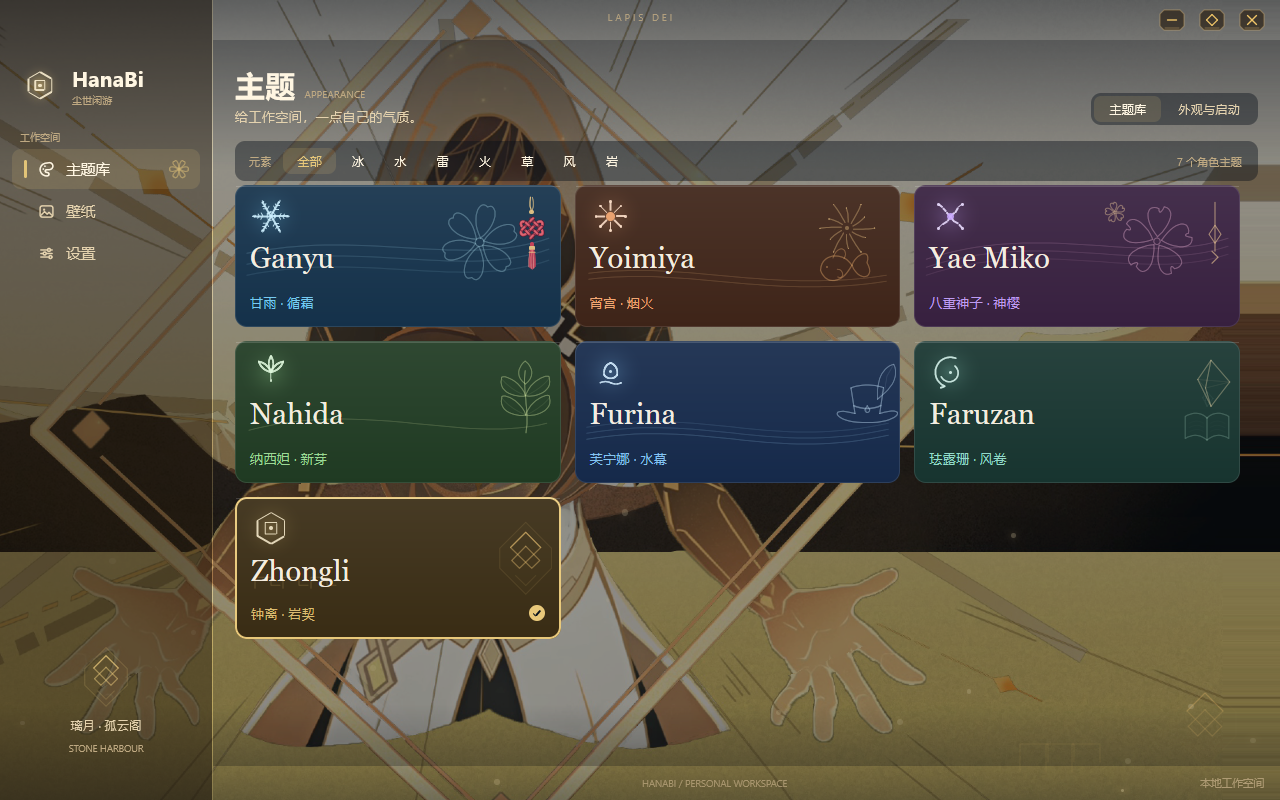
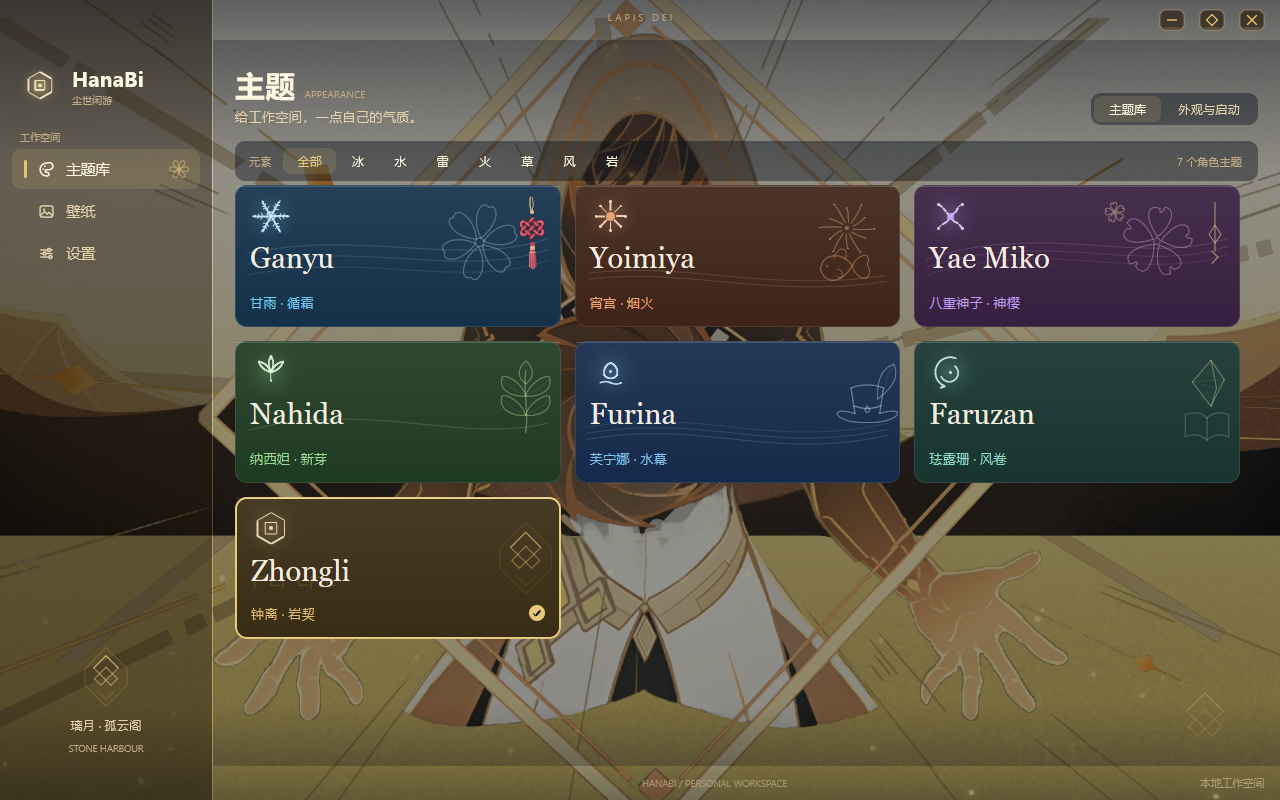
revert: 撤掉每角色取景（部分人物偏左），保留弹簧过渡
上一版照抄了原项目的 view.zoom / view.focusX，在 16:10 窗口下横向裁切更窄，
同样的 UV 平移被放大成十几个百分点，宵宫/纳西妲/芙宁娜/珐露珊/钟离明显偏左。

- 去掉 Character 的 Zoom/FocusX/FocusY、着色器的 Zoom/Focus 与 view 的镜头插值，
  壁纸回到 Cover 铺满（构图与取景前一致）
- 保留：临界阻尼弹簧进度（0.1s 过半、0.2s 到 96%）、wallpaper.Options 结构体
- 截图回退到取景前的版本；README / docs / CHANGELOG 同步

diff --git a/internal/theme/theme.go b/internal/theme/theme.go
@@ -292,16 +292,6 @@ type Character struct {
 	// Motion 是壁纸的动态配置（呼吸 / 发丝 / 环境漂移）。零值 = 完全静态。
 	Motion Motion
 
-	// Zoom / FocusX / FocusY 是壁纸取景：Zoom > 1 裁得更紧，Focus 是落在
-	// 窗口中心的图片坐标（0..1，零值 = 居中）。
-	//
-	// 数值取自参考项目的 view.zoom / view.focusX（k=1 稳态）：甘雨 1.22/0.395
-	// 是"近景"，纳西妲 1.02/0.605 是"远景"。切换主题时这两个值会插值，
-	// 镜头从旧取景推到新取景——原版"从后到前 / 从前到后"的观感就来自这里。
-	Zoom   float32
-	FocusX float32
-	FocusY float32
-
 	// WallTint 是壁纸染色的强度 0..1：0 = 保持原图颜色。
 	// 各自的壁纸色调已经贴合角色，这里只做轻微统一，通常 0.1~0.2。
 	WallTint float32
@@ -350,7 +340,7 @@ var all = []Character{
 		Motto: "循霜而行", Constellation: "S I N U S   U N I C O R N I S",
 		Scene: "璃月 · 海灯夜", SceneEN: "A QUIET MOMENT",
 		Element: Cryo, Motif: MotifCrystal, Opening: OpeningGanyu, Chrome: ChromeCrystal, Ornament: OrnamentQingxin,
-		Zoom: 1.22, FocusX: 0.395, FocusY: 0.485, WallTint: 0.15, Scrim: 0.14,
+		WallTint: 0.15, Scrim: 0.14,
 		CardBg: ui.Hex("#14314A"), Art: ArtNone,
 		Bg: "ganyu/bg.jpg", Icon: "ganyu/icon.png", Tok: ganyuTokens(),
 		// 甘雨壁纸动态，分两层机制：
@@ -377,7 +367,7 @@ var all = []Character{
 		Motto: "琉焰华舞", Constellation: "C A R A S S I U S   A U R A T U S",
 		Scene: "稻妻 · 夏祭", SceneEN: "FIREWORKS AT DUSK",
 		Element: Pyro, Motif: MotifFlame, Opening: OpeningYoimiya, Chrome: ChromePyro, Ornament: OrnamentGoldfish,
-		Zoom: 1.06, FocusX: 0.605, FocusY: 0.485, WallTint: 0.18, Scrim: 0.18,
+		WallTint: 0.18, Scrim: 0.18,
 		CardBg: ui.Hex("#3E2418"), Art: ArtNone,
 		Bg: "yoimiya/bg.jpg", Tok: yoimiyaTokens(),
 		// 宵宫：人物从 .hbc 网格烤进背景图（原图的背景是没有人的空场景）。
@@ -398,7 +388,7 @@ var all = []Character{
 		Element: Electro, Motif: MotifBolt, Opening: OpeningYae, Chrome: ChromeElectro, Ornament: OrnamentSakura,
 		// 压暗值按合成后壁纸的实测亮度给（0.70 → 0.32+0.38×0.55 ≈ 0.53，取 0.56 留一点余量）。
 		// 原背景是一整片亮樱色（0.81），烤进人物后暗部变多，0.66 会把人物压得看不清。
-		Zoom: 1.10, FocusX: 0.560, FocusY: 0.485, WallTint: 0.15, Scrim: 0.20,
+		WallTint: 0.15, Scrim: 0.20,
 		CardBg: ui.Hex("#37203F"), Art: ArtNone,
 		Bg: "yae/bg.jpg", Tok: yaeTokens(),
 		// 八重神子：原图的背景只有樱花枝（人物也是 .hbc 网格，已烤进 bg.jpg）。
@@ -421,7 +411,7 @@ var all = []Character{
 		Motto: "白草净华", Constellation: "S A P I E N T I A   O R O M A S D I S",
 		Scene: "须弥 · 世界树", SceneEN: "DREAM OF WISDOM",
 		Element: Dendro, Motif: MotifLeaf, Opening: OpeningNahida, Chrome: ChromeDendro, Ornament: OrnamentSprig,
-		Zoom: 1.02, FocusX: 0.605, FocusY: 0.485, WallTint: 0.15, Scrim: 0.22,
+		WallTint: 0.15, Scrim: 0.22,
 		CardBg: ui.Hex("#1F3A22"), Art: ArtNone,
 		Bg: "nahida/bg.jpg", Tok: derive(ui.Hex("#A8E6A0")),
 		// 纳西妲：整幅都是她的特写。人物遮罩从「细节强度」推（虚化的背景细节少、
@@ -438,7 +428,7 @@ var all = []Character{
 		Motto: "不休独舞", Constellation: "A N I M U L A   C H O R A G I",
 		Scene: "枫丹 · 歌剧院", SceneEN: "THE STAGE AWAITS",
 		Element: Hydro, Motif: MotifWave, Opening: OpeningFurina, Chrome: ChromeHydro, Ornament: OrnamentTopHat,
-		Zoom: 1.06, FocusX: 0.620, FocusY: 0.485, WallTint: 0.14, Scrim: 0.14,
+		WallTint: 0.14, Scrim: 0.14,
 		CardBg: ui.Hex("#15294A"), Art: ArtNone,
 		Bg: "furina/bg.jpg", Tok: derive(ui.Hex("#8FD0FF")),
 		// 芙宁娜：发丝遮罩用原项目的 furina-sway.png（就是她发梢的形状），
@@ -454,7 +444,7 @@ var all = []Character{
 		Motto: "百巧千机", Constellation: "F L O S C U L I   I M P L E X I",
 		Scene: "须弥 · 教令院", SceneEN: "MACHINA OF WISDOM",
 		Element: Anemo, Motif: MotifWind, Opening: OpeningFaruzan, Chrome: ChromeAnemo, Ornament: OrnamentPolyhedron,
-		Zoom: 1.04, FocusX: 0.600, FocusY: 0.485, WallTint: 0.16, Scrim: 0.18,
+		WallTint: 0.16, Scrim: 0.18,
 		CardBg: ui.Hex("#17342F"), Art: ArtNone,
 		Bg: "faruzan/bg.jpg", Tok: derive(ui.Hex("#9EE8D6")),
 		// 珐露珊：原项目只有一张流向图（没有遮罩），发丝区按「头顶 + 左侧马尾」
@@ -472,7 +462,7 @@ var all = []Character{
 		Motto: "尘世闲游", Constellation: "L A P I S   D E I",
 		Scene: "璃月 · 孤云阁", SceneEN: "STONE HARBOUR",
 		Element: Geo, Motif: MotifGeo, Opening: OpeningZhongli, Chrome: ChromeGeo, Ornament: OrnamentStoneSeal,
-		Zoom: 1.03, FocusX: 0.605, FocusY: 0.485, WallTint: 0.18, Scrim: 0.22,
+		WallTint: 0.18, Scrim: 0.22,
 		CardBg: ui.Hex("#392C14"), Art: ArtNone,
 		Bg: "zhongli/bg.jpg", Tok: zhongliTokens(),
 		// 钟离：壁纸是 .hbw 分层容器，人物是第 7 层（id=85），发丝权重取该层

diff --git a/internal/view/app.go b/internal/view/app.go
@@ -434,19 +434,12 @@ func (a *App) View(c *ui.Context) {
 		fromFlow = a.wallpaperFlow()
 	}
 
-	// 取景（zoom + 焦点）：新旧两层共用同一个镜头，切换时从旧取景推到新取景。
-	// 这是"从后到前 / 从前到后"的来源——只叠化画面是平的，镜头动起来才有纵深。
-	cam := framingOf(fromChar)
-	if a.switching {
-		cam = cam.Mix(framingOf(a.char), k)
-	}
-
 	// 壁纸画在根容器的 Draw 回调里：它在自身背景之后、子元素之前执行，
 	// 所以 UI 天然压在壁纸上，不需要额外的层叠容器。
 	root := ui.Column(c).Fill().Background(a.tok.WinFill)
 	if fromBg != nil {
 		root = root.Draw(func(p *ui.Painter, r ui.Rect) {
-			a.drawWallpaper(p, r, fromChar, fromBg, fromFlow, fromTok, p.Now(), cam)
+			a.drawWallpaper(p, r, fromChar, fromBg, fromFlow, fromTok, p.Now())
 		})
 	}
 
@@ -460,7 +453,7 @@ func (a *App) View(c *ui.Context) {
 				flow := a.wallpaperFlow()
 				ui.Box(c).Fill().Opacity(k).
 					Draw(func(p *ui.Painter, r ui.Rect) {
-						a.drawWallpaper(p, r, a.char, bg, flow, a.char.Tok, p.Now(), cam)
+						a.drawWallpaper(p, r, a.char, bg, flow, a.char.Tok, p.Now())
 					})
 			}
 		}
@@ -498,19 +491,13 @@ func (a *App) View(c *ui.Context) {
 	}
 }
 
-// framingOf 把角色主题的取景转成着色器参数。
-func framingOf(c theme.Character) wallpaper.Framing {
-	return wallpaper.Framing{Zoom: c.Zoom, FocusX: c.FocusX, FocusY: c.FocusY}
-}
-
 // drawWallpaper 画一层壁纸：着色器 + 按壁纸亮度压暗 + 顶部渐变 + 环境粒子。
 //
 // 过渡时旧、新两层各画一次，新层靠 Element.Opacity 淡入。壁纸显现
 // （settings.WallpaperVis）叠加到角色自带的 Scrim 上，两层各自算。
-// cam 是共享的取景（过渡时由新旧两个角色插值而来）。
 func (a *App) drawWallpaper(p *ui.Painter, r ui.Rect, ch theme.Character,
-	bg *ui.Bitmap, flow *wallpaper.Flow, tok theme.Tokens, now time.Time, cam wallpaper.Framing) {
-	a.drawWallpaperAt(p, r, ch, bg, flow, tok, now.Sub(a.t0).Seconds(), cam)
+	bg *ui.Bitmap, flow *wallpaper.Flow, tok theme.Tokens, now time.Time) {
+	a.drawWallpaperAt(p, r, ch, bg, flow, tok, now.Sub(a.t0).Seconds())
 }
 
 // drawWallpaperAt 同上，但动效时间是显式传入的秒数。
@@ -518,8 +505,8 @@ func (a *App) drawWallpaper(p *ui.Painter, r ui.Rect, ch theme.Character,
 // 拆出来是为了截图/回归测试能钉住某一时刻——离屏渲染一帧要几秒，用真时钟
 // 会把动效推进一大截，两张图之间根本对不上。
 func (a *App) drawWallpaperAt(p *ui.Painter, r ui.Rect, ch theme.Character,
-	bg *ui.Bitmap, flow *wallpaper.Flow, tok theme.Tokens, elapsed float64, cam wallpaper.Framing) {
-	// 着色器驱动：取景（zoom + 焦点）+ 按角色元素色保亮度染色；
+	bg *ui.Bitmap, flow *wallpaper.Flow, tok theme.Tokens, elapsed float64) {
+	// 着色器驱动：Cover 铺满 + 按角色元素色保亮度染色；
 	// 人物、发丝、环境三层遮罩决定"谁能动"。
 	wallpaper.Draw(p, bg, r, wallpaper.Options{
 		Time:       elapsed,
@@ -527,7 +514,6 @@ func (a *App) drawWallpaperAt(p *ui.Painter, r ui.Rect, ch theme.Character,
 		Tint:       tok.Accent,
 		TintAmount: ch.WallTint,
 		Flow:       flow,
-		Framing:    cam,
 	})
 
 	scrim := a.settings.EffectiveScrim(ch.Scrim)

diff --git a/internal/wallpaper/wallpaper.go b/internal/wallpaper/wallpaper.go
@@ -53,41 +53,6 @@ type Flow struct {
 	DriftSpeed float32
 }
 
-// Framing 是取景：Zoom 越大裁得越紧，Focus 是落在窗口中心的图片坐标（0..1）。
-//
-// 参考项目给每个角色配了不同的取景（zoom 1.02~1.22、focusX 0.40~0.62），
-// 切换主题时镜头会从旧取景推拉到新取景——这就是"从后到前 / 从前到后"的来源。
-// 零值表示不缩放、居中。
-type Framing struct {
-	Zoom   float32
-	FocusX float32
-	FocusY float32
-}
-
-// Norm 把零值补成默认取景（zoom 1、居中），避免调用方到处判零。
-func (f Framing) Norm() Framing {
-	if f.Zoom <= 0 {
-		f.Zoom = 1
-	}
-	if f.FocusX <= 0 {
-		f.FocusX = 0.5
-	}
-	if f.FocusY <= 0 {
-		f.FocusY = 0.5
-	}
-	return f
-}
-
-// Mix 在两个取景之间插值（k=0 取 a，k=1 取 b）。
-func (f Framing) Mix(to Framing, k float32) Framing {
-	a, b := f.Norm(), to.Norm()
-	return Framing{
-		Zoom:   a.Zoom + (b.Zoom-a.Zoom)*k,
-		FocusX: a.FocusX + (b.FocusX-a.FocusX)*k,
-		FocusY: a.FocusY + (b.FocusY-a.FocusY)*k,
-	}
-}
-
 // Options 是一次壁纸绘制的全部参数。
 type Options struct {
 	// Time 是动效秒数，Play 是动效强度 0..1（0 = 静止）。
@@ -98,8 +63,6 @@ type Options struct {
 	TintAmount float32
 	// Flow 是可选的动态素材，nil 表示该主题完全静态。
 	Flow *Flow
-	// Framing 是取景（缩放与焦点）。
-	Framing Framing
 }
 
 // Draw 在 r 处按 o 绘制壁纸。
@@ -120,7 +83,6 @@ func Draw(p *ui.Painter, bg *ui.Bitmap, r ui.Rect, o Options) {
 			dir = o.Flow.DriftDir
 		}
 	}
-	f := o.Framing.Norm()
 	// image0=背景，image1=人物闸门，image2=发丝（R/G 两层），image3=环境。
 	// 空缺槽位读透明（权重 0），对应层自动不参与。
 	fx.Draw(p, r, shader.Options{
@@ -134,8 +96,6 @@ func Draw(p *ui.Painter, bg *ui.Bitmap, r ui.Rect, o Options) {
 			"DriftStrength":  drift,
 			"DriftDir":       dir[:],
 			"DriftSpeed":     speed,
-			"Zoom":           f.Zoom,
-			"Focus":          []float32{f.FocusX, f.FocusY},
 		},
 		Images: [4]*ui.Bitmap{bg, person, hair, ambient},
 	})

diff --git a/internal/view/theme_transition_test.go b/internal/view/theme_transition_test.go
@@ -1,10 +1,6 @@
-package view
+package view
 
-import (
-	"testing"
-
-	"bestuav-hanabi/internal/wallpaper"
-)
+import "testing"
 
 // TestSpringProgress 钉住主题切换的弹簧曲线：
 // 起点 0、单调、比匀速更早到达（0.1s 已经过半），到 0.42s 基本到 1。
@@ -26,30 +22,5 @@ func TestSpringProgress(t *testing.T) {
 	// 弹簧起步比 slowerstep 快：0.1s 时已经过半（匀速是 0.24）。
 	if v := springProgress(0.1); v < 0.6 {
 		t.Errorf("0.1s 应已过半（弹簧起步快），实际 %v", v)
-	}
-}
-
-// TestFramingMix 钉住取景插值：端点原样，中点居中。
-func TestFramingMix(t *testing.T) {
-	from := wallpaper.Framing{Zoom: 1.22, FocusX: 0.395, FocusY: 0.485}
-	to := wallpaper.Framing{Zoom: 1.02, FocusX: 0.605, FocusY: 0.485}
-
-	if got := from.Mix(to, 0); got != from {
-		t.Errorf("k=0 应等于起点，实际 %+v", got)
-	}
-	if got := from.Mix(to, 1); got != to {
-		t.Errorf("k=1 应等于终点，实际 %+v", got)
-	}
-	mid := from.Mix(to, 0.5)
-	if d := mid.Zoom - 1.12; d > 1e-5 || d < -1e-5 {
-		t.Errorf("中点 zoom 应为 1.12，实际 %v", mid.Zoom)
-	}
-	if d := mid.FocusX - 0.5; d > 1e-5 || d < -1e-5 {
-		t.Errorf("中点 focusX 应为 0.5，实际 %v", mid.FocusX)
-	}
-	// 零值要补成默认取景（zoom 1、居中），否则着色器会拿到 0 缩放。
-	def := wallpaper.Framing{}.Norm()
-	if def.Zoom != 1 || def.FocusX != 0.5 || def.FocusY != 0.5 {
-		t.Errorf("零值应归一成 zoom=1/居中，实际 %+v", def)
 	}
 }

diff --git a/internal/view/shotdump_test.go b/internal/view/shotdump_test.go
@@ -61,14 +61,13 @@ func TestWriteShots(t *testing.T) {
 			continue
 		}
 		flow := a.wallpaperFlowFor(ch)
-		cam := framingOf(ch)
 		for _, tm := range []float64{0, 6} {
 			fx := tm
 			shot := ui.NewTester(func(c *ui.Context) {
 				ui.Column(c).Fill().Draw(func(p *ui.Painter, r ui.Rect) {
 					wallpaper.Draw(p, bg, r, wallpaper.Options{
 						Time: fx, Play: 1, Tint: ch.Tok.Accent, TintAmount: ch.WallTint,
-						Flow: flow, Framing: cam,
+						Flow: flow,
 					})
 				})
 			}, w, h).Image()
@@ -77,7 +76,7 @@ func TestWriteShots(t *testing.T) {
 			// 带压暗层与粒子的完整壁纸（等于主界面上看到的那一层，但没有 UI）。
 			full := ui.NewTester(func(c *ui.Context) {
 				ui.Column(c).Fill().Draw(func(p *ui.Painter, r ui.Rect) {
-					a.drawWallpaperAt(p, r, ch, bg, flow, ch.Tok, fx, cam)
+					a.drawWallpaperAt(p, r, ch, bg, flow, ch.Tok, fx)
 				})
 			}, w, h).Image()
 			savePNG(t, filepath.Join(dir, fmt.Sprintf("wallpaperfull-%s-t%.2f.png", ch.ID, tm)), full)

diff --git a/README.md b/README.md
@@ -21,8 +21,7 @@
   状态栏只属于内容区（不通到侧栏），侧栏底部居中
 - **多角色主题**：一套「角色包」结构——令牌（11 色 + 圆角）、元素、标识画法（Motif）、
   窗口按钮造型（Chrome）、纹样（Ornament）、命之座、壁纸染色强度
-  - 主题库点卡片即切换：侧栏、卡片、文字、卡片 tint、壁纸氛围一起变，
-  0.42 秒弹簧过渡 + 镜头推拉（每个角色一套取景）
+  - 主题库点卡片即切换：侧栏、卡片、文字、卡片 tint、壁纸氛围一起变，0.42 秒弹簧过渡
   - **七个角色各有自己的壁纸**（均从 HanaBi-ui-Genshin 导入）：甘雨、宵宫、八重神子、纳西妲、芙宁娜、珐露珊、钟离
   - 八重神子与宵宫的原背景是**空场景**：原项目把人物做成运行时单独一层网格（`.hbc`）叠上去的。
     这里由脚本把人物烤进背景图，并顺手推出人物/发丝遮罩（见「动态壁纸」）
@@ -108,14 +107,12 @@
 - **启动记忆**：`internal/settings` 负责默认值、夹取与 JSON 读写；`NewAppWithSettings` 在启动时
   按模式选角色、字号、动效与开场开关；切换主题时同步 `Theme`（跟随当前用）
 - **转场**：
-  - **每个角色一套取景**（`Zoom` / `FocusX` / `FocusY`，数值取自原项目 `view.zoom` / `view.focusX`）：
-    甘雨 1.22 / 0.395 是近景，纳西妲 1.02 / 0.605 是远景，其余在两者之间
-  - 主题切换 **0.42 秒**：旧壁纸留在底层，新壁纸作为普通子元素按 `k` 淡入；
-    **两层共用同一个镜头**，`k` 从旧取景推到新取景——切换时画面会推近/拉远、横移，
-    这就是原版"从后到前 / 从前到后"的观感。只做透明度叠化是平的，所以之前显得生硬
+  - 主题切换 **0.42 秒**：旧壁纸留在底层，新壁纸作为普通子元素按 `k` 淡入，
+    同时 `a.tok` 在两组令牌之间插值；UI 整层是 Absolute，排在新壁纸之后绘制
+  - 壁纸按 Cover 铺满、不做额外缩放平移（照抄原版 `view.zoom` / `view.focusX`
+    的取景在 16:10 窗口下会让部分人物明显偏左，已经撤掉）
   - 进度曲线用**临界阻尼弹簧**（参考项目 `springs::S_CRIT`：4Hz、ζ=1，`1-e^(-wt)(1+wt)`）：
     起步快、收尾慢；0.1s 已过半、0.2s 到 96%，比 smootherstep 更"跟手"
-  - 同时 `a.tok` 在两组令牌之间插值；UI 整层是 Absolute，排在新壁纸之后绘制
   - 页面切换 **0.22 秒**：内容从下方 10 DIP 滑入并淡入
   - 主题页两个视图切换 **0.18 秒**淡入；窗口按钮悬停 140ms 补间，关闭按钮转玫红
 - **半透明浮层**：侧栏、标题栏、状态栏直接压在壁纸上（不用 glass 材质——它自带边缘高光，
@@ -208,7 +205,7 @@
 31. **派生壁纸资源是脚本产物、不是手改的**：`assets/<id>/person.png`、`hair.png`、`ambient.png`（以及八重/宵宫的 `bg.jpg`）由 `scripts/assetgen/generate.py` 从原项目素材生成，改了参数要重跑脚本；手改会在下次重跑时被覆盖。
 32. **4K 素材不能原样解码**：3840×2160 解成 RGBA 就是 33MB/张，加上 `ui.DecodeBitmap` 留的压缩数据、重新解码闭包和画小图时的 mip 层级，一个主题五六十 MB；切换时新旧两份同时驻留，来回切几次进程就冲到 700MB。现在**解码时就把宽度压到 1920**（遮罩生成时就只有 960），一张壁纸 8.3MB，一个主题约 15MB。另外别用 `x/image/draw` 的 `CatmullRom`/`BiLinear` 缩这种大图：源是 YCbCr 时它们走通用路径，会额外分配两张 float32 中间图（一张 4K 图临时就要 139MB），要自己按面积平均。
 33. **压暗值不能按"白字一定可读"来给**：原版 `dim` 只有约 0.12（`(1-.82)*.65`），我们一开始给到 0.32~0.66，壁纸只剩三四成亮度，整屏比原版暗一大截。正确做法是**壁纸少压、面板补对比度**：壁纸压暗 0.14~0.22，侧栏/卡片 alpha 提到 0.54~0.56，再用顶部/底部渐变托住标题与状态栏。
-34. **主题切换只做透明度叠化会显得生硬**：原版每个角色都有自己的取景（zoom 1.02~1.22 + 焦点横移 0.40~0.62），切换时两层壁纸共用同一个"镜头"，由弹簧把镜头推过去——画面推近/拉远时才有纵深。只叠化两张不同构图的图，看起来就是一次普通的 dissolve，而且越慢越"糊"。进度曲线也别用 smootherstep，用临界阻尼弹簧（起步快、收尾慢）才跟手。
+34. **别照抄原版的取景（zoom / focusX）**：原项目的 `view.zoom` 1.02~1.22、`focusX` 0.40~0.62 是为它的窗口比例调的；搬到 16:10 窗口后横向裁切更窄，同样的 UV 平移会放大成十几个百分点，人物明显偏左。壁纸按 Cover 铺满最稳；切换的"跟手"交给临界阻尼弹簧（0.1s 过半、0.2s 到 96%），别用 smootherstep。
 
 ## 运行
 

diff --git a/docs/wallpaper-motion.md b/docs/wallpaper-motion.md
@@ -36,33 +36,12 @@
 | `image2` | `hair`（R=基础层，G=细缕层） | 发丝/衣摆：两层不同频率、方向、速度 |
 | `image3` | `ambient` 灰度遮罩 | 环境漂移：只在大块柔和区域（天空/光/雾/水）里流动 |
 
-### 取景（Zoom / Focus）
+### 主题切换的曲线
 
-每个角色有一套取景，数值直接取自参考项目 `main.cpp` 的 `view.zoom` / `view.focusX`：
+壁纸按 Cover 铺满（不额外缩放/平移：试过照抄原版 `view.zoom` / `view.focusX` 的取景，
+在 16:10 窗口下人物会明显偏左，已经撤掉）。
 
-| 主题 | Zoom | FocusX |
-|---|---|---|
-| 甘雨 | 1.22 | 0.395 |
-| 八重神子 | 1.10 | 0.560 |
-| 宵宫 | 1.06 | 0.605 |
-| 芙宁娜 | 1.06 | 0.620 |
-| 珐露珊 | 1.04 | 0.600 |
-| 钟离 | 1.03 | 0.605 |
-| 纳西妲 | 1.02 | 0.605 |
-
-着色器里等价于参考项目的 `p = (uv-.5)*cover/zoom + focus`：
-
-```glsl
-zoom := max(Zoom, 1.0)
-s    := max(size.x/img.x, size.y/img.y) * zoom  // cover 之后再做裁切
-uv   := (pos-off)/s/img + (Focus - vec2(0.5))   // Focus 落在窗口中心
-```
-
-**切换主题时两层壁纸共用同一个镜头**：`framing = from.Frame.Mix(to.Frame, k)`，
-于是旧图会边淡出边推近/横移，新图从另一个取景接上来——这就是"从后到前 /
-从前到后"的观感。只叠化两张构图不同的图是没有纵深感的，这正是之前显得生硬的原因。
-
-进度曲线用临界阻尼弹簧（参考项目 `springs::S_CRIT`：4Hz、ζ=1）：
+切换只用临界阻尼弹簧（参考项目 `springs::S_CRIT`：4Hz、ζ=1）控制两层壁纸的叠化：
 
 ```go
 k = 1 - e^(-w·t)(1 + w·t)   // w = 2π·4

diff --git a/CHANGELOG.md b/CHANGELOG.md
@@ -11,10 +11,10 @@
 - **修掉宵宫的脸被拉变形**：发丝遮罩把脸部椭圆挖掉了，发丝只在她头发上飘。
 - **修掉珐露珊的脖子**：她的人物遮罩漏了脸、脖子和马尾（光滑皮肤与大块暗发在细节图里
   都抓不住），头在呼吸、脖子不动，下巴处像被裁了一刀；按实测坐标补了三块椭圆。
-- **主题切换改成"镜头推拉"**：每个角色一套取景（Zoom 1.02~1.22、FocusX 0.40~0.62，
-  数值取自原项目），切换时两层壁纸共用同一个镜头、由临界阻尼弹簧把镜头推过去，
-  旧图边淡出边推近/横移，新图从另一取景接上——这是原版"从后到前 / 从前到后"的观感；
-  进度曲线也从 smootherstep 换成弹簧（0.1s 过半、0.2s 到 96%），更跟手。
+- **主题切换改用弹簧曲线**：进度从 smootherstep 换成临界阻尼弹簧
+  （参考项目 `S_CRIT`：4Hz、ζ=1，0.1s 过半、0.2s 到 96%），收尾更跟手；
+  壁纸仍按 Cover 铺满——试过照抄原版的取景（zoom 1.02~1.22 + 焦点横移），
+  在 16:10 窗口下部分角色会明显偏左，已撤回。
 - **壁纸不再整体偏暗**：原来的压暗值 0.32~0.66 让壁纸只剩三四成亮度（原版 `dim` 约 0.12），
   现在压到 0.14~0.22，对比度交给半透明面板（侧栏/卡片 alpha 提到 0.54~0.56）与顶部/底部渐变。
 - **内存从 700MB 级降到 100MB 级**：壁纸解码时降到 1920 宽（33MB → 8.3MB/张）、
